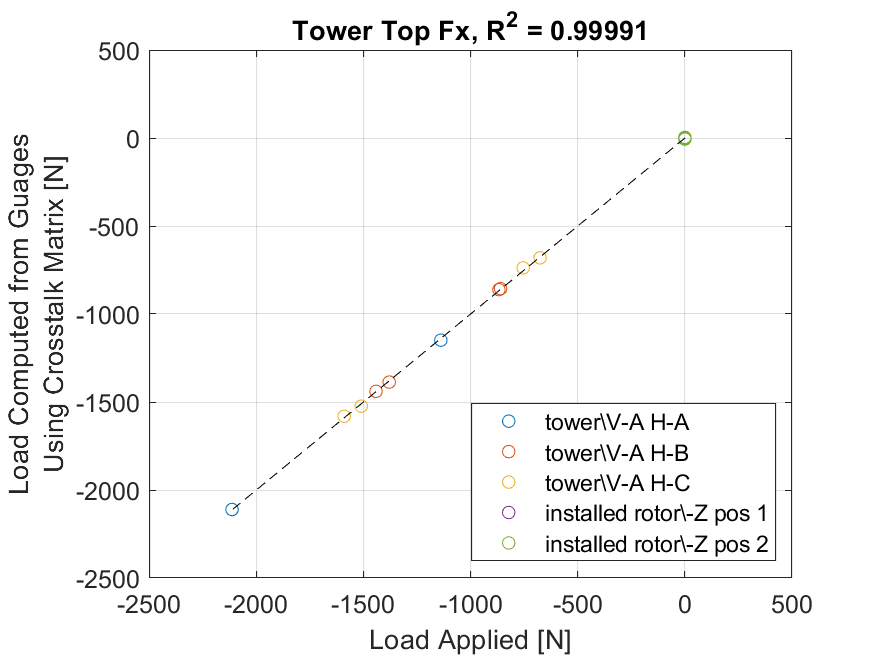
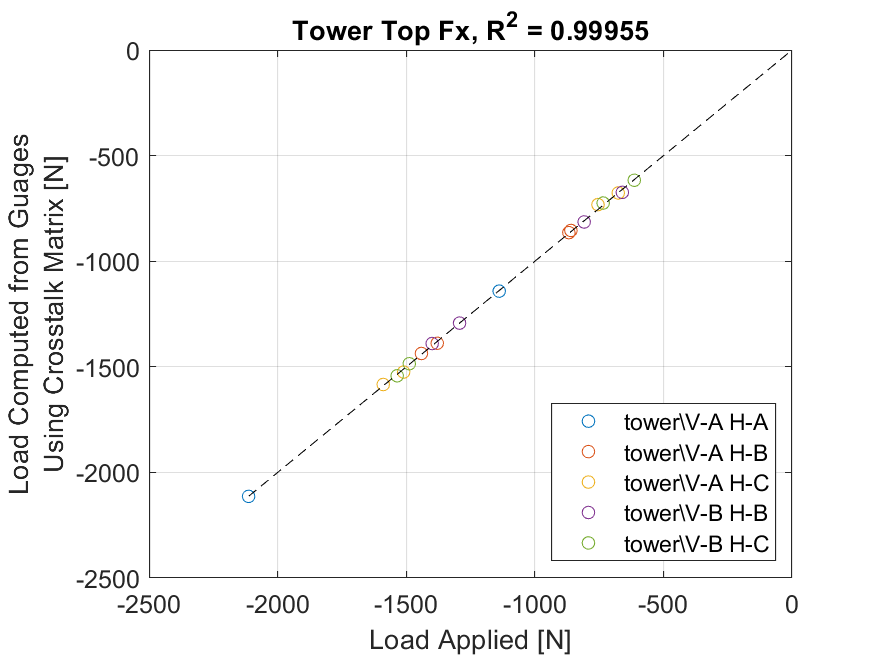
Working in implementing tower top measurments

diff --git a/processing/implementations/10m_Spanish_Fork_testing/Calibrations/Inputs/Tower Top/calibration_matrix_inputs__tower_top_pulls.m b/processing/implementations/10m_Spanish_Fork_testing/Calibrations/Inputs/Tower Top/calibration_matrix_inputs__tower_top_pulls.m
@@ -65,66 +65,66 @@ moment_arm = V_A_pull_z - V_A_pull_r*sind(horiz_angle);
 calib(calibNum).applied_load_scaling = cosd(horiz_angle).*[cosd(theta); sind(theta); cosd(theta).*moment_arm; sind(theta).*moment_arm];
 calib(calibNum).corrections.load = [(1:length(manual_applied_loads))', mean(manual_applied_loads,2)];
 
-% %% V-B, H-B
-% calibNum = calibNum + 1;
-% calib(calibNum).folder = 'tower\V-B_H-B';
-% 
-% % Manually recorded information
-% E_GW_dist = [42*12 + 4, 42*12 + 5, 42*12 + 11, 43*12]*consts.units.inch_to_m;
-% S_GW_dist = [17*12 + 2, 17*12 + 2.5, 17*12 + 3.5, 17*12 + 7]*consts.units.inch_to_m;
-% W_GW_dist = [16*12 + 11, 16*12 + 11.5, 16*12 + 10.5, 16*12 + 11]*consts.units.inch_to_m;
-% horiz_angle = [(-9.3+-10.6)/2, (-10.1+-11.5)/2,...
-%     (-10.4+-11.0)/2, (-9.1+-9.1)/2];
-% manual_applied_loads = [0, 0; 1804, 1804; 924, 923; 0, 0; 1133, 1136; 1969, 1964; 0, 0];
-% 
-% % Calculated inputs
-% [~, theta] = get_tower_pull_coordinate(E_GW_dist,S_GW_dist,W_GW_dist,consts.foundation.E_GW__SW_bolt,consts.foundation.S_GW__NW_bolt,consts.foundation.W_GW__SE_bolt,tol);
-% moment_arm = V_B_pull_z - V_B_pull_r*sind(horiz_angle);
-% calib(calibNum).applied_load_scaling = cosd(horiz_angle).*[cosd(theta); sind(theta); cosd(theta).*moment_arm; sind(theta).*moment_arm];
-% calib(calibNum).corrections.load = [(1:length(manual_applied_loads))', mean(manual_applied_loads,2)];
-% 
-% %% V-B, H-C
-% calibNum = calibNum + 1;
-% calib(calibNum).folder = 'tower\V-B_H-C';
-% 
-% % Manually recorded information
-% E_GW_dist = [18*12 + 0, 18*12 + 1, 18*12 + 0, 17*12 + 11]*consts.units.inch_to_m;
-% S_GW_dist = [15*12 + 6.5, 15*12 + 4, 15*12 + 6, 15*12 + 6]*consts.units.inch_to_m;
-% W_GW_dist = [37*12 + 10, 37*12 + 5, 37*12 + 8, 37*12 + 7]*consts.units.inch_to_m;
-% horiz_angle = [-11.9, -12.3, -11.8, -11.9];
-% manual_applied_loads = [0, 0; 1982, 1979; 815, 808.5; 0, 0; 975, 976; 2043.5, 2045; 0, 0];
-% 
-% % Calculated inputs
-% [~, theta] = get_tower_pull_coordinate(E_GW_dist,S_GW_dist,W_GW_dist,consts.foundation.E_GW__SW_bolt,consts.foundation.S_GW__NE_bolt,consts.foundation.W_GW__SE_bolt,tol);
-% moment_arm = V_B_pull_z - V_B_pull_r*sind(horiz_angle);
-% calib(calibNum).applied_load_scaling = cosd(horiz_angle).*[cosd(theta); sind(theta); cosd(theta).*moment_arm; sind(theta).*moment_arm];
-% calib(calibNum).corrections.load = [(1:length(manual_applied_loads))', mean(manual_applied_loads,2)];
-
-%% -Z_pos_1
+%% V-B, H-B
 calibNum = calibNum + 1;
-calib(calibNum).folder = 'installed_rotor\-Z_pos_1';
+calib(calibNum).folder = 'tower\V-B_H-B';
 
 % Manually recorded information
-N_GW_dist = (37*12 + 0)*consts.units.inch_to_m;
-S_GW_dist = (18*12 + 9)*consts.units.inch_to_m;
-W_GW_dist = (14*12 + 2)*consts.units.inch_to_m;
+E_GW_dist = [42*12 + 4, 42*12 + 5, 42*12 + 11, 43*12]*consts.units.inch_to_m;
+S_GW_dist = [17*12 + 2, 17*12 + 2.5, 17*12 + 3.5, 17*12 + 7]*consts.units.inch_to_m;
+W_GW_dist = [16*12 + 11, 16*12 + 11.5, 16*12 + 10.5, 16*12 + 11]*consts.units.inch_to_m;
+horiz_angle = [(-9.3+-10.6)/2, (-10.1+-11.5)/2,...
+    (-10.4+-11.0)/2, (-9.1+-9.1)/2];
+manual_applied_loads = [0, 0; 1804, 1804; 924, 923; 0, 0; 1133, 1136; 1969, 1964; 0, 0];
 
 % Calculated inputs
-[~, theta] = get_tower_pull_coordinate(N_GW_dist,S_GW_dist,W_GW_dist,consts.foundation.N_GW__SW_bolt,consts.foundation.S_GW__NW_bolt,consts.foundation.W_GW__SE_bolt,tol);
-moment_arm = consts.rotor.radius;
-calib(calibNum).applied_load_scaling = [0; 0; sind(theta)*moment_arm; cosd(theta)*moment_arm];
+[~, theta] = get_tower_pull_coordinate(E_GW_dist,S_GW_dist,W_GW_dist,consts.foundation.E_GW__SW_bolt,consts.foundation.S_GW__NW_bolt,consts.foundation.W_GW__SE_bolt,tol);
+moment_arm = V_B_pull_z - V_B_pull_r*sind(horiz_angle);
+calib(calibNum).applied_load_scaling = cosd(horiz_angle).*[cosd(theta); sind(theta); cosd(theta).*moment_arm; sind(theta).*moment_arm];
+calib(calibNum).corrections.load = [(1:length(manual_applied_loads))', mean(manual_applied_loads,2)];
 
-%% -Z_pos_2
+%% V-B, H-C
 calibNum = calibNum + 1;
-calib(calibNum).folder = 'installed_rotor\-Z_pos_2';
+calib(calibNum).folder = 'tower\V-B_H-C';
 
 % Manually recorded information
-N_GW_dist = (37*12 + 7)*consts.units.inch_to_m;
-S_GW_dist = (17*12 + 7)*consts.units.inch_to_m;
-E_GW_dist = (15*12 + 10)*consts.units.inch_to_m;
+E_GW_dist = [18*12 + 0, 18*12 + 1, 18*12 + 0, 17*12 + 11]*consts.units.inch_to_m;
+S_GW_dist = [15*12 + 6.5, 15*12 + 4, 15*12 + 6, 15*12 + 6]*consts.units.inch_to_m;
+W_GW_dist = [37*12 + 10, 37*12 + 5, 37*12 + 8, 37*12 + 7]*consts.units.inch_to_m;
+horiz_angle = [-11.9, -12.3, -11.8, -11.9];
+manual_applied_loads = [0, 0; 1982, 1979; 815, 808.5; 0, 0; 975, 976; 2043.5, 2045; 0, 0];
 
 % Calculated inputs
-[~, theta] = get_tower_pull_coordinate(N_GW_dist,S_GW_dist,E_GW_dist,consts.foundation.N_GW__SE_bolt,consts.foundation.S_GW__NE_bolt,consts.foundation.E_GW__SW_bolt,tol);
-moment_arm = consts.rotor.radius;
-calib(calibNum).applied_load_scaling = [0; 0; sind(theta)*moment_arm; cosd(theta)*moment_arm];
+[~, theta] = get_tower_pull_coordinate(E_GW_dist,S_GW_dist,W_GW_dist,consts.foundation.E_GW__SW_bolt,consts.foundation.S_GW__NE_bolt,consts.foundation.W_GW__SE_bolt,tol);
+moment_arm = V_B_pull_z - V_B_pull_r*sind(horiz_angle);
+calib(calibNum).applied_load_scaling = cosd(horiz_angle).*[cosd(theta); sind(theta); cosd(theta).*moment_arm; sind(theta).*moment_arm];
+calib(calibNum).corrections.load = [(1:length(manual_applied_loads))', mean(manual_applied_loads,2)];
 
+% %% -Z_pos_1
+% calibNum = calibNum + 1;
+% calib(calibNum).folder = 'installed_rotor\-Z_pos_1';
+% 
+% % Manually recorded information
+% N_GW_dist = (37*12 + 0)*consts.units.inch_to_m;
+% S_GW_dist = (18*12 + 9)*consts.units.inch_to_m;
+% W_GW_dist = (14*12 + 2)*consts.units.inch_to_m;
+% 
+% % Calculated inputs
+% [~, theta] = get_tower_pull_coordinate(N_GW_dist,S_GW_dist,W_GW_dist,consts.foundation.N_GW__SW_bolt,consts.foundation.S_GW__NW_bolt,consts.foundation.W_GW__SE_bolt,tol);
+% moment_arm = consts.rotor.radius;
+% calib(calibNum).applied_load_scaling = [0; 0; sind(theta)*moment_arm; cosd(theta)*moment_arm];
+% 
+% %% -Z_pos_2
+% calibNum = calibNum + 1;
+% calib(calibNum).folder = 'installed_rotor\-Z_pos_2';
+% 
+% % Manually recorded information
+% N_GW_dist = (37*12 + 7)*consts.units.inch_to_m;
+% S_GW_dist = (17*12 + 7)*consts.units.inch_to_m;
+% E_GW_dist = (15*12 + 10)*consts.units.inch_to_m;
+% 
+% % Calculated inputs
+% [~, theta] = get_tower_pull_coordinate(N_GW_dist,S_GW_dist,E_GW_dist,consts.foundation.N_GW__SE_bolt,consts.foundation.S_GW__NE_bolt,consts.foundation.E_GW__SW_bolt,tol);
+% moment_arm = consts.rotor.radius;
+% calib(calibNum).applied_load_scaling = [0; 0; sind(theta)*moment_arm; cosd(theta)*moment_arm];
+% 

diff --git a/processing/implementations/10m_Spanish_Fork_testing/Calibrations/Verifications/tower_Mx_My.m b/processing/implementations/10m_Spanish_Fork_testing/Calibrations/Verifications/tower_Mx_My.m
@@ -1,0 +1,58 @@
+clear all
+close all
+clc
+
+%% Common inputs
+verify.consts = XFlow_Spanish_Fork_testing_constants();
+
+% verify.data.physical_loads = {'Tower_Top_Fx','Tower_Top_Fy','Tower_Top_Mx','Tower_Top_My'};
+verify.data.absolute_cali_path = 'C:\Users\Ian\Documents\GitHub\xflow-daq\processing\implementations\10m_Spanish_Fork_testing\Calibrations\Results\cal_struct_08_10_24.mat';
+
+
+%% 
+verify.absolute_data_path = 'X:\Experiments and Data\20 kW Prototype\Loads_Data\load_calibrations\installed_rotor';
+verify.tdms_filter = '*rotor_strain*.tdms';
+verify.applied_load_var_name = 'appliedLoad';
+verify.relative_data_folder = '-Z_pos_1';
+
+%%%%%%%%%%%%%%%%%%
+files = dir(fullfile(verify.absolute_data_path,verify.relative_data_folder,verify.tdms_filter));
+
+if isempty(files)
+    error(sprintf('No files with the format %s found in %s',verify.tdms_filter,fullfile(verify.absolute_data_path,verify.relative_data_folder)))
+end
+
+%% Extract applied load
+% This is done first so we can generate the tare list when using
+% process_data_folder
+for II =1:length(files)
+    TDMS = readTDMS(files(II).name,fullfile(verify.absolute_data_path,verify.relative_data_folder));
+    d = convertTDMStoXFlowFormat(TDMS);
+
+    applied_load_ind = find(strcmp({TDMS.property.name},verify.applied_load_var_name));
+    applied_load(II) = str2double(TDMS.property(applied_load_ind).value);
+end
+
+%% Create tareList in the data directory
+tareList = {files(applied_load == 0).name};
+save(fullfile(verify.absolute_data_path,verify.relative_data_folder,'tareList.mat'),'tareList')
+
+%% Process data folder
+files = struct;
+files.absolute_data_dir = '';
+files.relative_experiment_dir =  fullfile(verify.absolute_data_path,verify.relative_data_folder); % This is relative to files.absolute_data_dir
+files.relative_tare_dir = files.relative_experiment_dir; % This is relative to files.absolute_data_dir
+
+load(verify.data.absolute_cali_path)
+results = process_data_folder(files,cal,verify.consts);
+
+%% Cleanup figure
+figure(fh1)
+title('Rotor Segment My')
+x = [-3000 4000];
+plot(x,x,'--k')
+legend('Rotor Segment on Ground','Rotor Raised, -X', 'Rotor Raised, +X','Location','SouthEast')
+xlabel('Applied Load')
+ylabel('Measured Load')
+grid on
+box on

diff --git a/processing/implementations/10m_Spanish_Fork_testing/Calibrations/tower_top_calibration.m b/processing/implementations/10m_Spanish_Fork_testing/Calibrations/tower_top_calibration.m
@@ -1,5 +1,5 @@
 clear all
-close all
+% close all
 clc
 
 %% Initialize
@@ -20,10 +20,10 @@ count = count + 1;
 [calib,crosstalk] = calibration_matrix_inputs__tower_top_pulls(consts);
 cal(count) = build_crosstalk_matrix(crosstalk,calib,data_path,data_folder,tdmsPrefix,makePlots,fullfile(savePath,'tower'));
 
-% %% Rotor Torque
-% count = count + 1;
-% [calib,crosstalk] = calibration_matrix_inputs__rotor_torque(consts);
-% cal(count) = build_crosstalk_matrix(crosstalk,calib,data_path,data_folder,tdmsPrefix,makePlots,fullfile(savePath,'installed_rotor'));
+%% Rotor Torque
+count = count + 1;
+[calib,crosstalk] = calibration_matrix_inputs__rotor_torque(consts);
+cal(count) = build_crosstalk_matrix(crosstalk,calib,data_path,data_folder,tdmsPrefix,makePlots,fullfile(savePath,'installed_rotor'));
 
-% %% Save
-% save(fullfile(savePath,saveName),'cal')
+%% Save
+save(fullfile(savePath,saveName),'cal')

diff --git a/processing/implementations/10m_Spanish_Fork_testing/Calibrations/combine_calibration_structs.m b/processing/implementations/10m_Spanish_Fork_testing/Calibrations/combine_calibration_structs.m
@@ -12,7 +12,8 @@ cal_names = {'guy_wire_cal_struct',...
     'upper_arm_cal_multi_axis_struct',...
     'upper_arm_cal_split_multi_axis_struct',...
     'blade_bending_cal_single_axis_struct',...
-    'met_tower_cal_struct'};
+    'met_tower_cal_struct',...
+    'tower_top_cal_struct'};
 
 % Make the calibration struct which will be used for data processing
 make_cal_struct(path,cal_names)

diff --git a/processing/utilities/Data Analysis/process_data_point.m b/processing/utilities/Data Analysis/process_data_point.m
@@ -36,8 +36,6 @@ results.chanNames = in.chanNames;
 % of the data conversion
 results.cal_applied = zeros(size(results.chanNames)); % initialize
 
-
-
 for II = 1:length(cal)
     % Check is data is avalible for ALL relevant input channels
     flag = 1;

diff --git a/processing/utilities/Data Analysis/process_data_folder.m b/processing/utilities/Data Analysis/process_data_folder.m
@@ -46,6 +46,7 @@ end
 if isempty(fieldnames(tare))
     error('No tares were loaded')
 end
+
 %% Process data files
 % Loop through all the data files and run them through process_data_point
 
